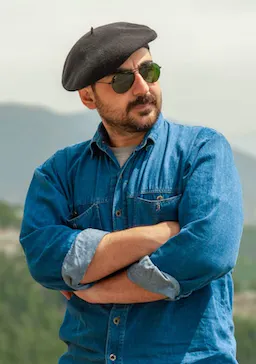
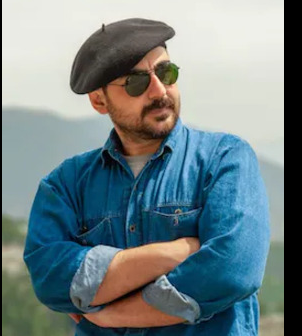
Complete Faculty section

diff --git a/panaverse-dao/app/components/Faculty.tsx b/panaverse-dao/app/components/Faculty.tsx
@@ -1,5 +1,5 @@
 "use client";
-import { Box, Flex, Grid, GridItem, Text } from "@chakra-ui/react";
+import { Box, Flex, Grid, GridItem, Heading, Text } from "@chakra-ui/react";
 import Image from "next/image";
 import ziaK from "../assets/zia_khan.jpg";
 import daniyalN from "../assets/daniyal_nagori.jpeg";
@@ -21,49 +21,52 @@ const faculty = [
     title: "Daniyal Nagori",
     designation: "Software Development Lead at Panacloud Pvt Ltd",
     details:
-      "Certified Kubernetes Application Developer AWS Certified Developer Coursera React Native Nano Degree. I have been fortunate to be able to architect solutions in as wide an array as Cloud Native, Voice Computing/Chatbot development, Web, Mobile, AI, and Blockchain. ",
+      "Certified Kubernetes Application Developer AWS Certified Developer Coursera React Native Nano Degree. I have been fortunate to be able to architect solutions in as wide an array as Cloud Native.",
   },{
     image: zeeshanH,
     title: "Zeeshan Hanif",
     designation: "Head of Software Development at Panacloud Pvt Ltd",
     details:
-      "Software development certified from IBM, SUN and Microsoft. Also passed Certified Management Accountant (CMA) examinations from Institute of Management Accountant (IMA), New Jersey and Level 2 of Chartered Financial Analyst (CFA), Charlottesville, Virginia.",
+      "Software development certified from IBM, SUN and Microsoft. Also passed Certified Management Accountant (CMA) examinations from Institute of Management Accountant (IMA).",
   },{
     image: adilA,
     title: "Adil Altaf",
     designation: "CEO at Axiom Enterprises",
     details:
-      "He have been working in the software industry for over a decade in which I have accumulated a vast amount of knowledge and experience in all areas of the Full Stack SDLC including architecture and design, development, implementation, integration, and deployment.",
+      "He have been working in the software industry for over a decade in which I have accumulated a vast amount of knowledge and experience in all areas of the Full Stack SDLC including architecture and design.",
   },{
     image: hiraK,
     title: "Hira Khan",
     designation: "Director at the Women Empowerment Div. of PIAIC",
     details:
-      "I am the Director of the Women Empowerment of the Presidential Initiative for Artificial Intelligence & Computing. The mission of PIAIC is to reshape Pakistan by revolutionizing education, research, and business by adopting latest, cutting-edge technologies.",
+      "I am the Director of the Women Empowerment of the Presidential Initiative for Artificial Intelligence & Computing. The mission of PIAIC is to reshape Pakistan by revolutionizing education.",
   },{
     image: asifS,
     title: "Asif Shah",
     designation: "International Council of Design Member",
     details:
-      "Communication Arts Annual Typography Award Discussion On Blog International Council of Design Member Communicator Awards Package Design Graphis Poster Design For Brand Barcode Marcom 2010 Platinum Awardsi2u design studio Wucht Fruit Flavored Water Ltd W3 Awards",
+      "Communication Arts Annual Typography Award Discussion On Blog International Council of Design Member Communicator Awards Package Design Graphis Poster Design For Brand Barcode.",
   },
 ];
 
 export const Faculty = () => {
   return (
-    <Box py="50px">
-      <Grid
+    <Box py="50px" bgColor="#DFD3BB" >
+      <Heading as='h1' textAlign='center'>Our Proud Faculty</Heading>
+      <Box bg='black' textAlign='center' width='50px' height='2px' margin='auto' mb='70px'></Box>
+      <Grid      
         templateColumns={["repeat(1, 1fr)", "repeat(1, 1fr)", "repeat(2, 1fr)"]}
-        gap={6}
+        gap={10}
+        px='30px'
       >
         {faculty.map((f) => {
           return (
             <GridItem>
               <Flex>
-                <Image src={f.image} alt={f.title} className="facultyImg" />
-                <Flex flexDirection="column" justifyContent="flex-start">
-                  <Text>{f.title}</Text>
-                  <Text>{f.designation}</Text>
+                <Image src={f.image} alt={f.title} className="facultyImg"/>
+                <Flex flexDirection="column" justifyContent="flex-start" gap='5px' px='10px'>
+                  <Text fontSize='1.3rem' fontWeight='bold'>{f.title}</Text>
+                  <Text fontSize='1.3rem'>{f.designation}</Text>
                   <Text>{f.details}</Text>
                 </Flex>
               </Flex>

diff --git a/panaverse-dao/app/globals.css b/panaverse-dao/app/globals.css
@@ -18,6 +18,7 @@
 }
 
 .facultyImg {
-  width:100px;
-  height:100px
+  width:20%;
+  height:auto;
+  border-radius: 50%;
 }
